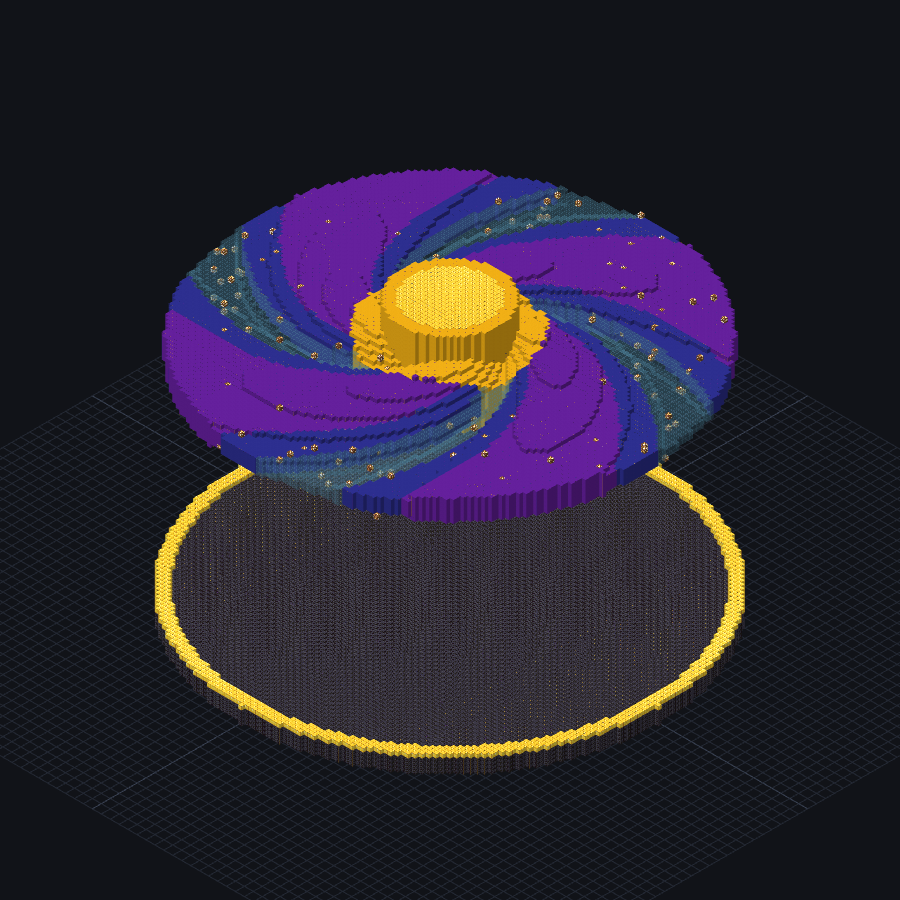
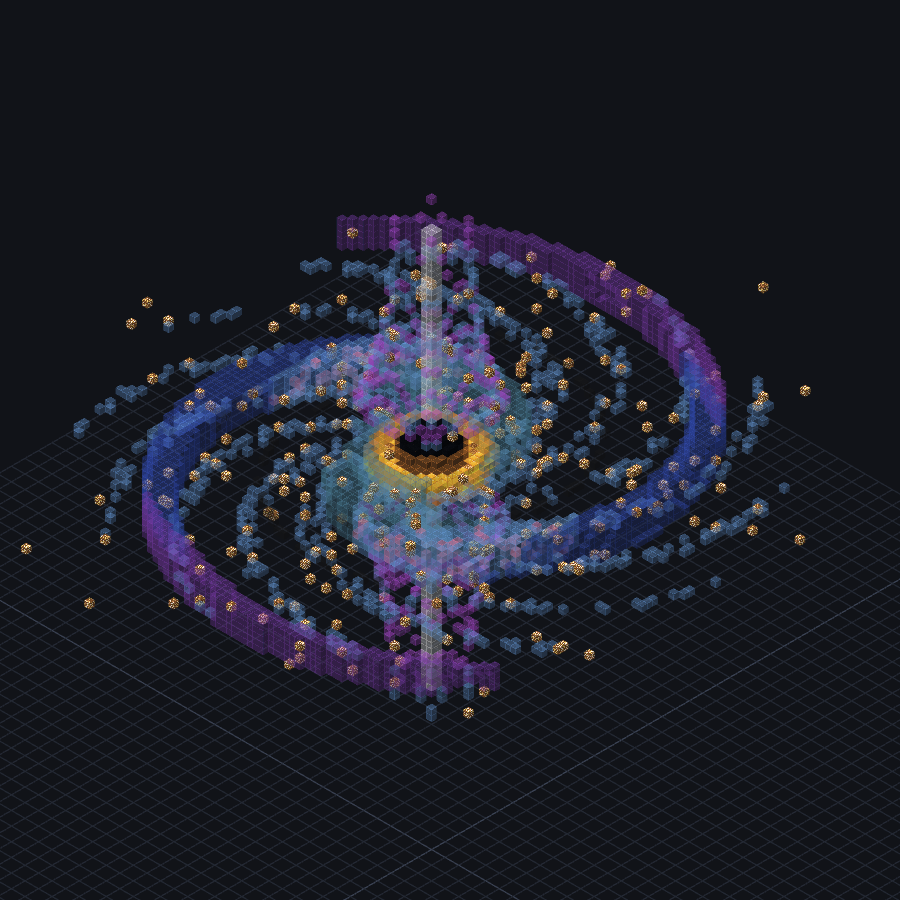
Rebuild galaxy with planar arms and quasar jets
Replace the flat logarithmic galaxy with rotating XZ-plane glass ellipses, large Voronoi chunks, a black core and gold accretion ring, hyperbolic quasar jets, closest-based spokes, and a sparse ellipsoidal star field. Update the portfolio render, manifest, contact sheet, and advanced-generation notes.

diff --git a/docs/worldedit/advanced-generation.md b/docs/worldedit/advanced-generation.md
@@ -124,7 +124,7 @@ inside&&abs(ox)<=1&&abs(oy)<=1&&abs(oz)<=1
 | 15 | 门格尔海绵 | 4 级三分挖空 + 三色高度带 + 底座 | `15_menger_128.txt` |
 | 16 | 曼德尔箱 | box fold + sphere fold + scale -1.8 + 逃逸时间 | `16_mandelbox_128.txt` |
 | 17 | 莫比乌斯带 | 半扭转带宽方程 `|u sin(θ/2)-v cos(θ/2)|<t` + 角度配色/发光边 | `17_mobius_128.txt` |
-| 18 | 银河 | 对数螺旋臂 + 薄盘 + 核球 + 黑曜石核心/橙色吸积环 + 星尘 | `18_galaxy_128.txt` |
+| 18 | 银河 v2 | 平面旋转椭圆玻璃臂 + Voronoi 块 + 黑球/金环 + 双曲喷流 + `closest` 辐条 + 稀疏星场 | `18_galaxy_128.txt` |
 
 ## 4. 关键公式
 
@@ -233,15 +233,35 @@ hd>=0.42&&hd<0.52
 
 ### 4.7 银河
 
+平面螺旋臂用 XZ 平面内的长椭圆，椭圆本身随半径旋转：
+
 ```text
-r=sqrt(dx^2+dz^2); a=atan2(dz,dx);
-arm=abs(sin(2*a-2.2*ln(r+2)));
-th=2+7*exp(-r/30);
-(r<58&&abs(dy)<th*(0.3+0.7*arm))||(r<14&&abs(dy)<12)
+dx=x-63.5; dz=z-63.5; dy=y-64;
+r=sqrt(dx*dx+dz*dz);
+u=dx; v=dz; rot=0.10*r+0.35; rotate(u,v,rot);
+w=8+0.09*r;
+warp=v+1.4*perlin(4,u*0.04,y*0.06,v*0.04,0.05,2,0.5);
+arm=(u/54)^2+(warp/w)^2<1;
+n=voronoi(3,u,y,v,0.08);
+arm&&r>8&&r<56&&abs(dy)<2.5+0.5*sin(r*0.28)&&n>0.32
 ```
 
-两条对数螺旋臂 + 中心核球；`th` 控制盘厚度，越靠外越薄。上色按半径分核球/内盘/外盘，
-再用 `atan2` 的螺旋相位加青色/蓝色臂纹；中心挖黑曜石球，外圈橙色吸积环。
+- `rotate(a,b,angle)` 只接受**两个变量并原地改写**，不是 3D 位置函数。XZ 平面旋转要写
+  `u=dx; v=dz; rotate(u,v,angle)`；`sqrt(dx²+dz²)` 用来控制螺旋扭转角（这里是 `0.10*r`），
+  不能直接当作 `rotate` 的坐标参数。
+- `u/54` 是长轴，`w` 是长椭圆半短轴；`warp` 用 Perlin 轻微扭动臂缘。
+- `voronoi(3,u,y,v,0.08)` 的频率约对应 12 格大块，配合 `n>0.32` 把臂撕成块，但不会碎成
+  单方块噪点。颜色用 `//gmask light_blue_stained_glass` + `//replace` 按半径分青/蓝/紫，
+  再撒少量粉玻璃和发光方块，避免把空气也替换掉。
+- 黑球用 `dx²+dz²+dy²<4.8²`，外面是金块环 + 橙色/黄色玻璃吸积盘。
+- 类星体喷流用绕 Y 轴旋转的双曲线：`rr=dx²+dz²; h=abs(dy); h*rr≈K`。
+  近中心 `r` 小，`h` 大；远处 `h` 落回银盘。外壳用
+  `abs(h*rr-K)<(0.45+0.035*r)*rr`，`K` 加 Perlin 扰动，玻璃分三层。
+- 小臂辐条按参考公式先生成 12 个圆周顶点，再用 `closest` 比较偏移点生成 Voronoi 边：
+  `A=closest(p+d,0,q,...); B=closest(p-d,...); A!=B`。整体先
+  `rotate(p,q,0.045*r+0.3)`，再叠加 Perlin，最后只保留 `r=8..48` 的薄层。
+- 星场是覆盖银河的大椭球，`random()<0.0016*(1-R)^1.5+0.00015`，
+  越靠近中心概率越高，但总量保持在 1k 以内；全部用萤石。
 
 ## 5. 复杂地形
 

diff --git a/examples/advanced/README.md b/examples/advanced/README.md
@@ -70,7 +70,7 @@ python tools\colorize_y.py work\advanced\tornado_white128.schem ^
 | 15 | `15_menger_128.txt` | 4 级门格尔海绵 | 134k | 15s |
 | 16 | `16_mandelbox_128.txt` | Mandelbox（10 次迭代） | 606k | 79s |
 | 17 | `17_mobius_128.txt` | 莫比乌斯带 + 发光边 | 86k | 25s |
-| 18 | `18_galaxy_128.txt` | 对数螺旋银河 + 黑洞/吸积环 | 120k | 27s |
+| 18 | `18_galaxy_128.txt` | 平面椭圆玻璃臂 + Voronoi 块 + 黑洞/金环 + 双曲喷流 + `closest` 辐条 + 稀疏星场 | 9.9k | ~60s |
 
 数字来自一次性本机验证，因随机糖针/云/星尘会略有浮动。CLI 时间不含网页渲染。
 

diff --git a/docs/worldedit/generation-expressions.md b/docs/worldedit/generation-expressions.md
@@ -116,6 +116,8 @@
   min, rint, round, sin, sinh, sqrt, tan, tanh`
 - 其他：`rotate(x,y,angle)`、`swap(x,y)`、`random()`、`randint(max)`、`perlin(...)`、
   `voronoi(...)`、`ridgedmulti(...)`
+- `rotate(a,b,angle)` / `swap(a,b)` **只接受变量并原地改写**，不会返回新坐标。XZ 平面旋转必须写
+  `u=dx; v=dz; rotate(u,v,angle)`；半径 `sqrt(dx²+dz²)` 只能用来计算角度/宽度，不能当坐标参数。
 - 常量：`e`、`pi`、`true`、`false`
 - 控制：`if/else`、`while`、`do/while`、`for`；循环最多 256 次
 - 最后一条语句的值会作为结果返回；末尾分号通常可省略
